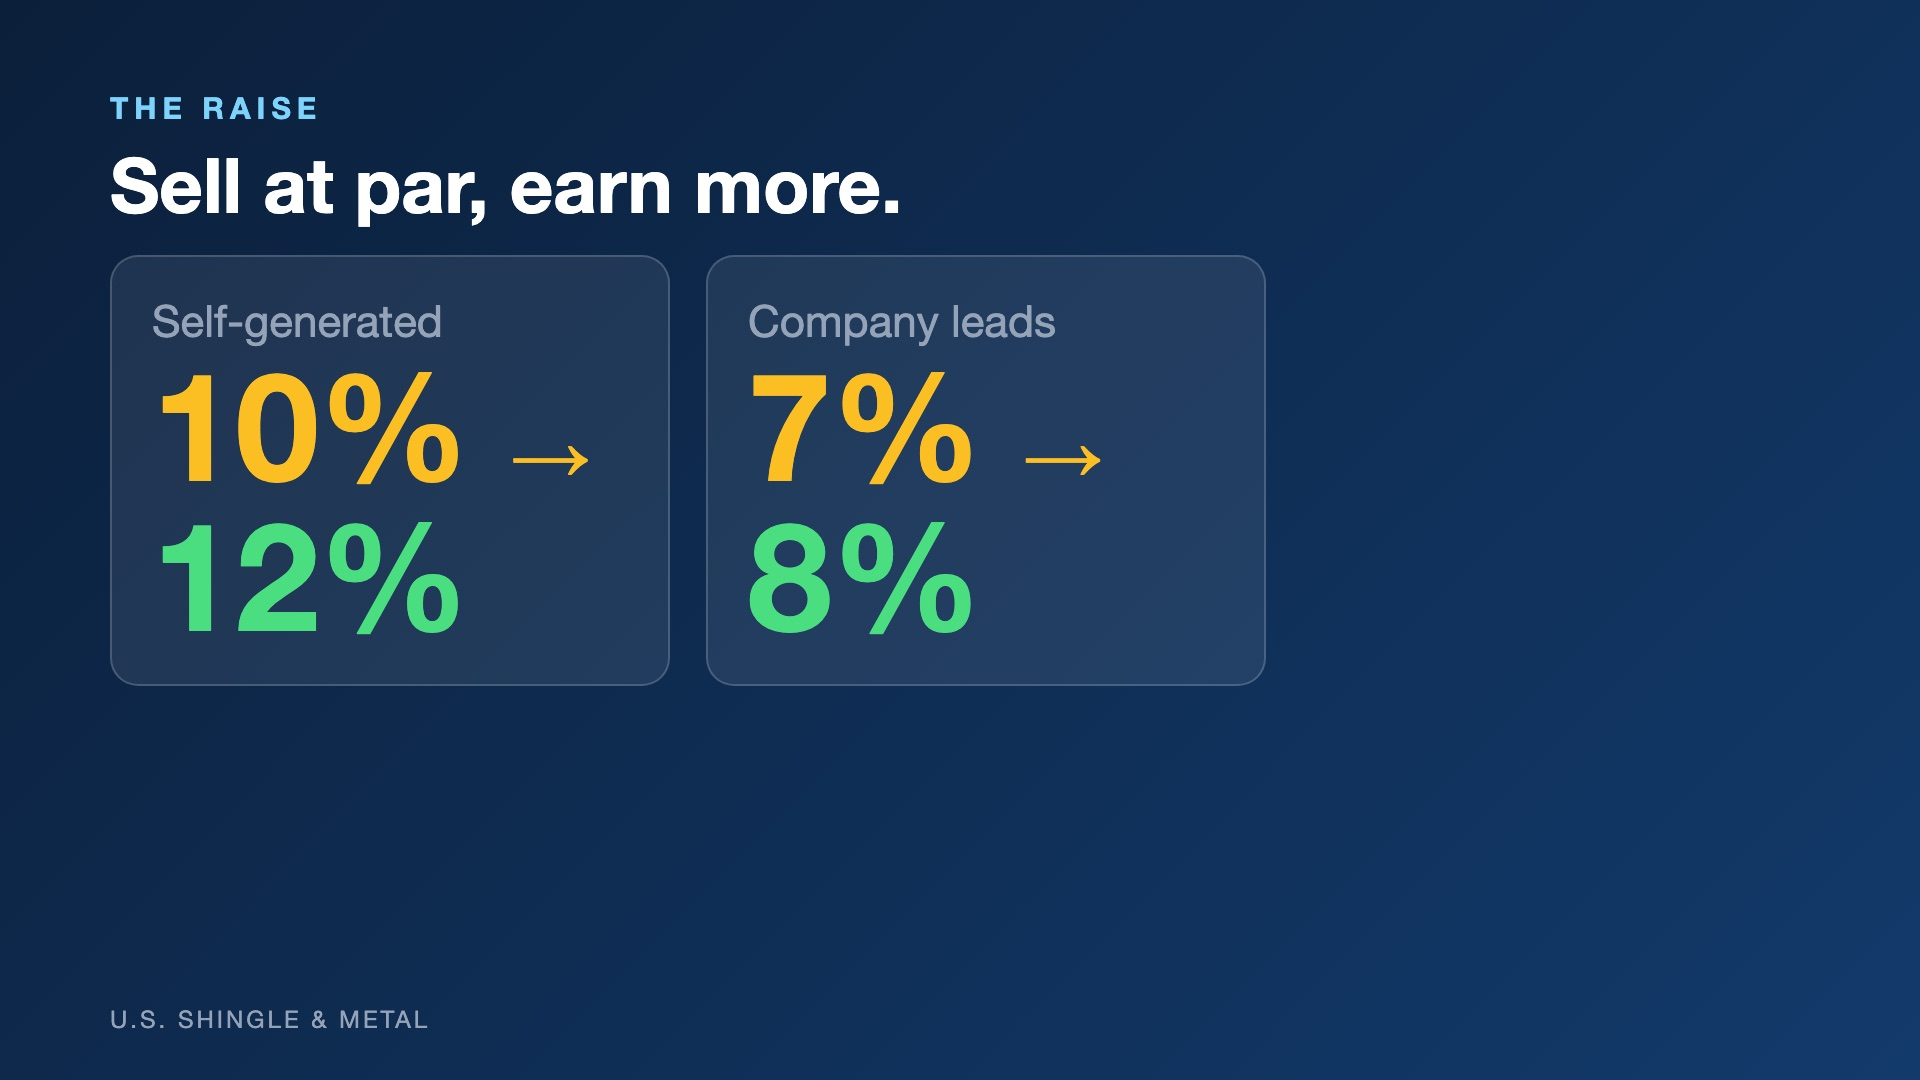
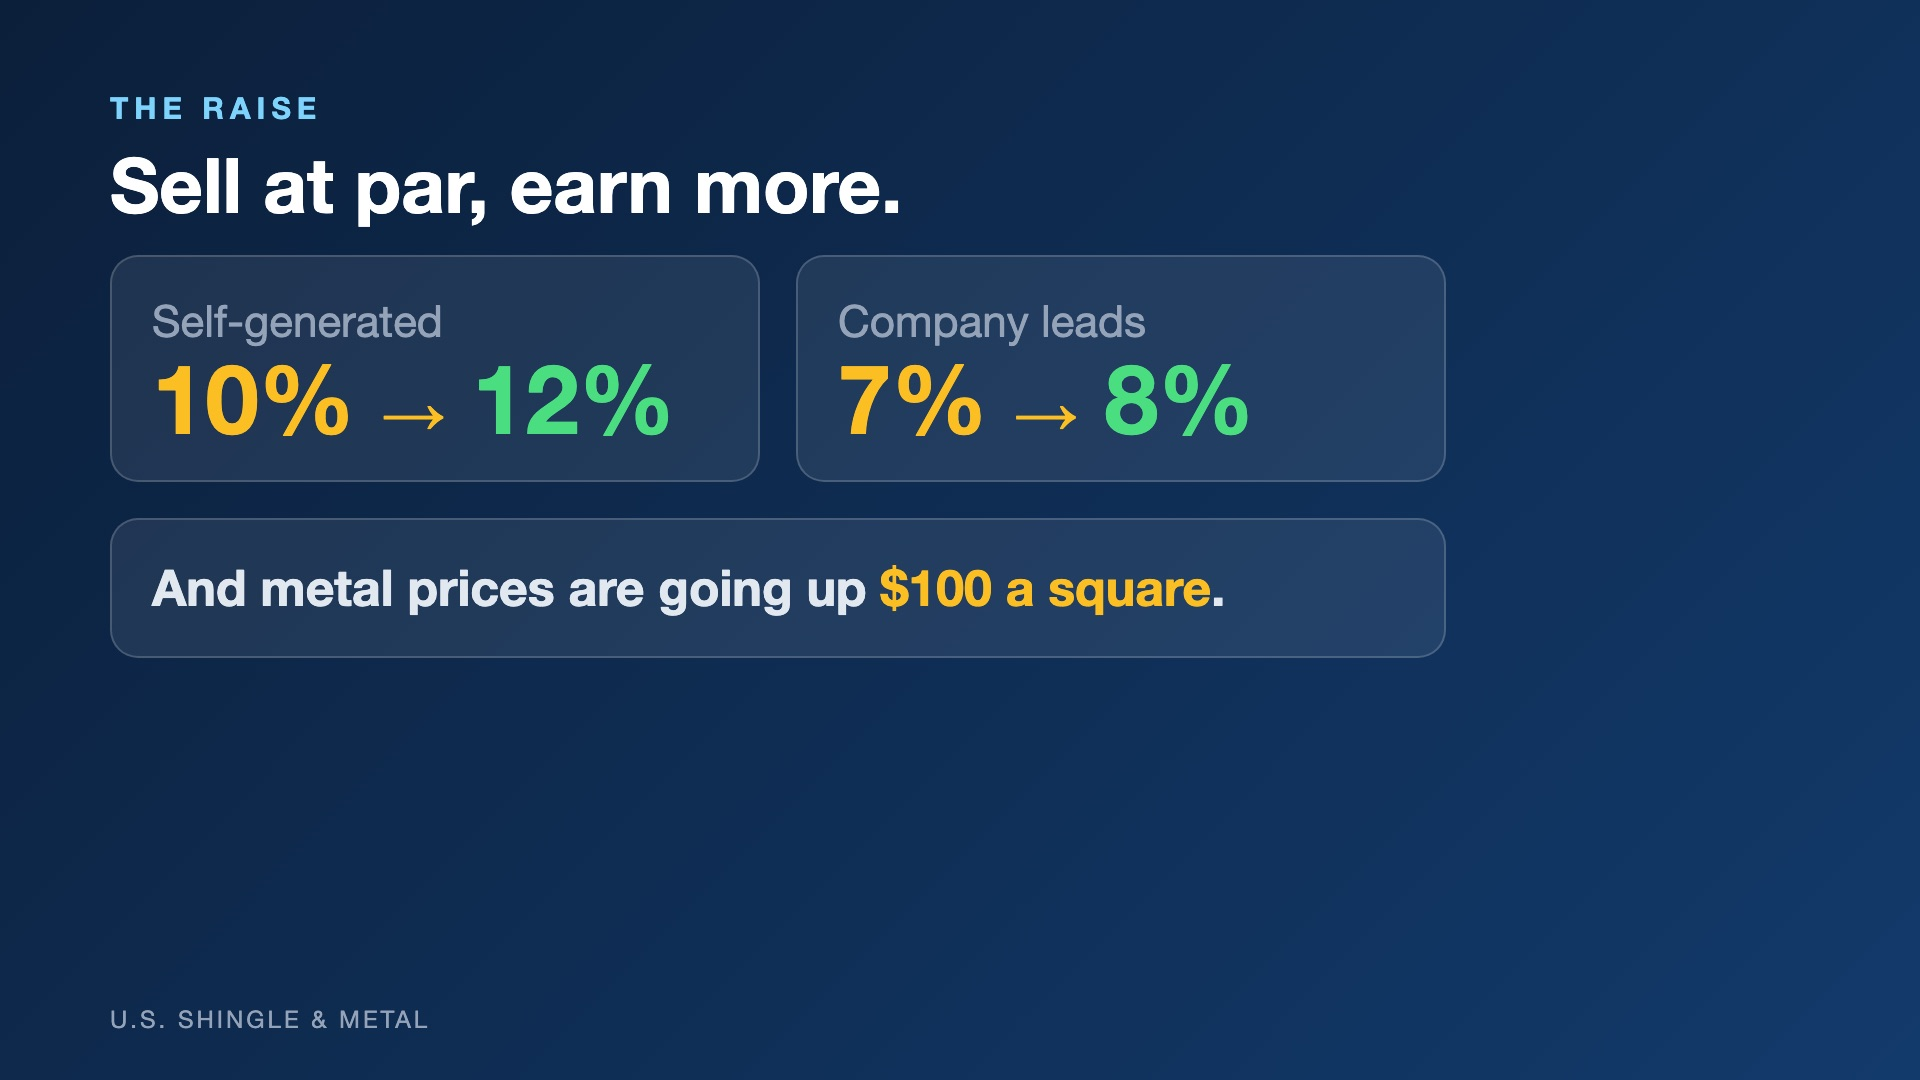
TMS raise deck: slide 2 adds 'metal prices are going up $100 a square'

Changed region(s): [[0.0625, 0.275, 0.6562, 0.6111]]

diff --git a/public/raise/index.html b/public/raise/index.html
@@ -14,7 +14,7 @@
      (~/Desktop/zoom presentations/Everybody Gets a Raise.key); talking points are the speaker notes. -->
 <div class="reveal"><div class="slides">
     <section data-background-image="img/s01.jpg" data-background-size="contain" data-background-color="#0b1f3a"><aside class="notes">Open big: &#x27;Who wants a raise? Everybody&#x27;s getting a raise today.&#x27; Our par commission structure is going up — as long as you sell at par.</aside></section>
-    <section data-background-image="img/s02.jpg" data-background-size="contain" data-background-color="#0b1f3a"><aside class="notes">Self-gen goes from 10% to 12%. Company-provided leads go from 7% to 8%. That&#x27;s at par — hold par and you get the raise.</aside></section>
+    <section data-background-image="img/s02.jpg" data-background-size="contain" data-background-color="#0b1f3a"><aside class="notes">Self-gen goes from 10% to 12%. Company-provided leads go from 7% to 8%. That&#x27;s at par — hold par and you get the raise. And metal products are going up $100 a square.</aside></section>
     <section data-background-image="img/s03.jpg" data-background-size="contain" data-background-color="#0b1f3a"><aside class="notes">Walk through the last two weeks of metal sales. 95% had no competitive bid. If they weren&#x27;t comparing prices, why sell below par? Either you started at par when you shouldn&#x27;t have, or you dropped without calling in (a big no-no). They bought because they liked you, the story, the company — or the deal. Not the number.</aside></section>
     <section data-background-image="img/s04.jpg" data-background-size="contain" data-background-color="#0b1f3a"><aside class="notes">Have Dustin Hunt tell it: &#x27;Just listen to me for two weeks — charge $100 more and don&#x27;t drop the price.&#x27; Ask him on the call: did you lose anybody? Did your closing percentage go down? (No.)</aside></section>
     <section data-background-image="img/s05.jpg" data-background-size="contain" data-background-color="#0b1f3a"><aside class="notes">All metal products go up $100 a square, and you quote $100 more than that first. Exposed fastener goes from $775 to asking $975 (DeWayne said $995 down south — confirm the south number before the meeting). $975 is a price point nobody knows — there&#x27;s nothing to compare it to.</aside></section>
